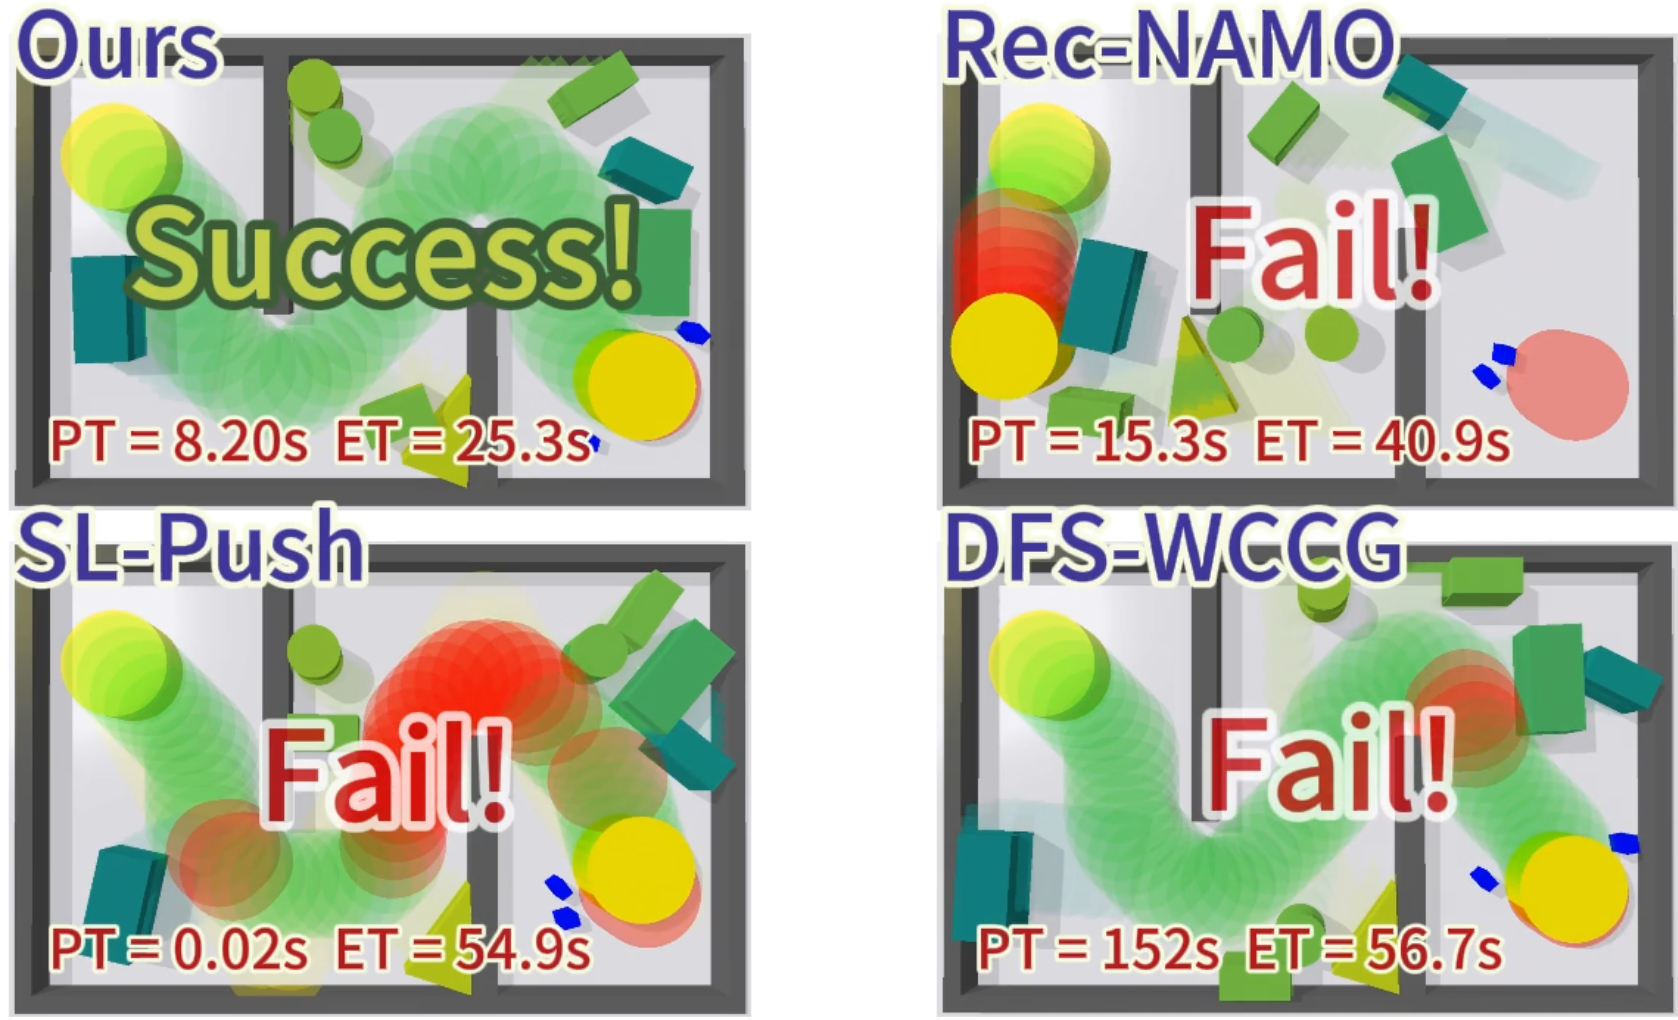
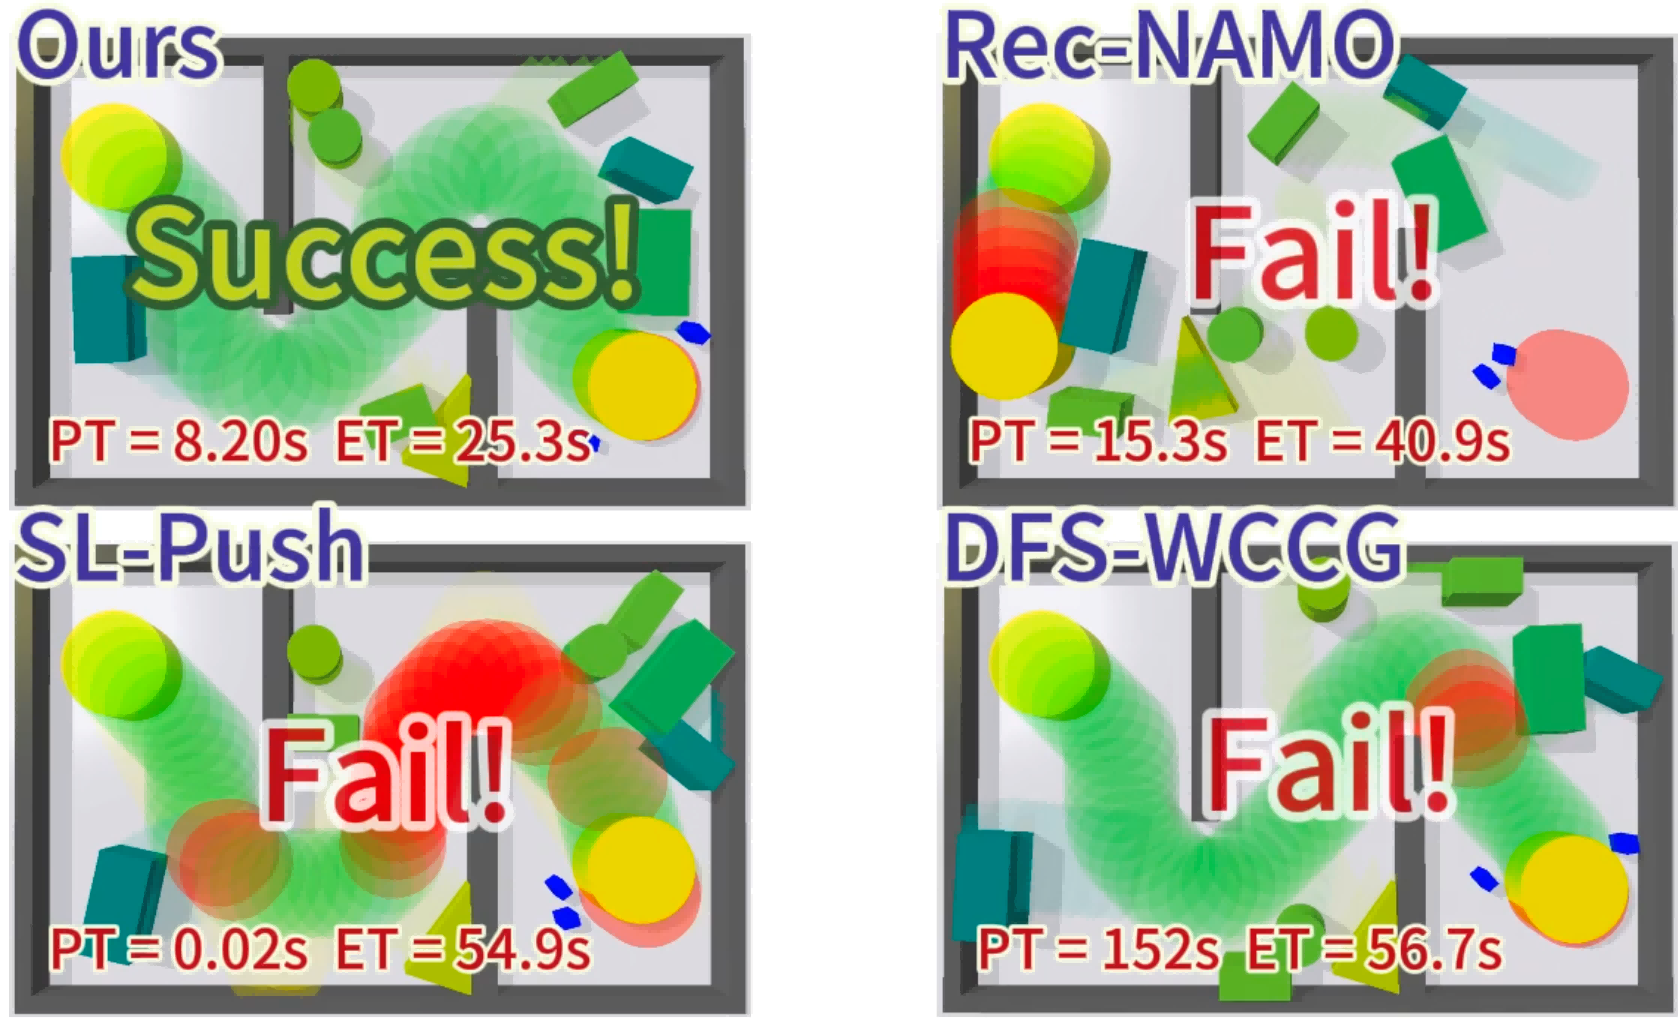
fix typo

diff --git a/ral_tex/contents/experiment.tex b/ral_tex/contents/experiment.tex
@@ -32,8 +32,9 @@ $10$, and gap sampling follows a softmax distribution with temperature~$0.05$.
 \subsubsection{Results}
 
 
-The result in the main scenario with~$10$ movable obstacles and two robots,
-as shown in Fig.~\ref{fig:simloop}. In the initial state, the start and goal
+The result in Scenario 1 with 10 movable obstacles and two robots is shown
+in Fig.~\ref{fig:main_result}. 
+In the initial state, the start and goal
 belong to different $W$-clearance faces, indicating that a feasible passage for
 the object is blocked by movable obstacles.
 Based on these selected gaps, the task sampler generates $6$ push
@@ -43,10 +44,7 @@ the reachable $W$-clearance region. After each executed push, the WCCG overlay
 is updated, and the blue start face expands through the newly opened gaps. This
 confirms that the planned pushing actions are consistent with the
 topological progress predicted by the graph search. The execution finishes in
-$42.27$\,s, and the final WCCG overlay shows that the start face contains the
-goal position.
-
-
+$42.27$\,s, and the final WCCG overlay shows that the start face contains the goal position.
 
 
 
@@ -68,7 +66,7 @@ goal position.
   SL-Push (offline)   & 62.5  & 0.06  & 44.1   & 0.0   & 7.0  \\
   SL-Push (sim)        & 75.0  & 18.2  & 64.6   & 20.0 & 10.0  \\
   Rec-NAMO             & 37.5  & 13.3  & 42.4   & 0.0   & 7.0  \\
-  \textbf{PushAround (ours)} & \textbf{92.5} & \textbf{10.3} & \textbf{28.6} & \textbf{121.5} & \textbf{6.0} \\
+  \textbf{PushAround (ours)} & \textbf{97.5} & \textbf{10.3} & \textbf{28.6} & \textbf{121.5} & \textbf{6.0} \\
   \midrule
   w/o presearch        & 85.0 & 16.9 & 35.2 & 178 & 7.0 \\
   w/o ModeTable        & 80.0 & 15.1 & 33.4  & 164 & 6.0 \\
@@ -77,6 +75,7 @@ goal position.
   \bottomrule
   \end{tabular}
   \end{threeparttable}
+  \vspace{-0.2in}
 \end{table}
 % ========================================
 
@@ -84,36 +83,37 @@ goal position.
 \begin{figure}[t!]
   \centering
   \includegraphics[width=0.8\columnwidth]{figures/compare.png}
-  \vspace{-0.15in}
+  \vspace{-0.1in}
   \caption{Failure cases by baselines Rec-NAMO, SL-Push and DFS-WCCG.}
   \label{fig:baseline}
-  \vspace{-0.1in}
+  \vspace{-0.2in}
 \end{figure}
 % ========================================
 
 \subsubsection{Comparisons}\label{subsec:comparisons}
-In total four external planners are evaluated under the same $W$-clearance criterion and contact models. External
-baselines are: \textbf{DFS-WCCG}, a simulation-in-the-loop depth-first search  guided by the WCCG
-with four fixed axis-aligned pushes per movable, which scales poorly due to exponential branching;
-\textbf{SL-Push (offline)}, which clears blockers by minimal displacements along a straight or
-waypointed route without physics, planning quickly but yielding unrealizable executions;
-\textbf{SL-Push (sim)}, which validates the same route with physics, improving feasibility but
-requiring many simulations and long action sequences; and \textbf{Rec-NAMO}, which combines Dijkstra
-routing with local push decomposition and edge pruning, producing faster plans than simulation-heavy
-methods but often failing to establish a connected $W$-clear corridor in dense clutter.
-Table~\ref{tab:main_ablation} shows that PushAround achieves the highest
-success rate of $92.5\%$ with the lowest combined planning and execution time
-of $38.9$\,s. DFS-WCCG reaches only $25.0\%$ success due to exponential
-branching, requiring more than $100$,s planning time and more than $500$
-simulations. As detailed in Fig.~\ref{fig:baseline}, SL-Push offline is
-extremely fast with $0.06$\,s planning time but produces physically invalid or
-incomplete executions, resulting in only $62.5\%$ success, while SL-Push sim
-improves success to $75.0\%$ at the cost of $18.2$\,s planning time,
-$64.6$\,s execution time, and~$10$ pushes. Rec-NAMO is faster than
-simulation-heavy baselines with~$13.3$\,s planning time, but often fails to
-produce complete solutions and reaches only $37.5\%$ success.
-
-
+In total four external planners are evaluated under the same $W$-clearance
+criterion and contact models. External baselines are: \textbf{DFS-WCCG}, a
+simulation-in-the-loop depth-first search guided by the WCCG with four fixed
+axis-aligned pushes per movable, which scales poorly due to exponential
+branching; \textbf{SL-Push (offline)}, which clears blockers by minimal
+displacements along a straight or waypointed route without physics, planning
+quickly but yielding unrealizable executions; \textbf{SL-Push (sim)}, which
+validates the same route with physics, improving feasibility but requiring many
+simulations and long action sequences; and \textbf{Rec-NAMO}, which combines
+Dijkstra routing with local push decomposition and edge pruning, producing
+faster plans than simulation-heavy methods but often failing to establish a
+connected $W$-clear corridor in dense clutter. Table~\ref{tab:main_ablation}
+shows that PushAround achieves the highest success rate of $97.5\%$ with the
+lowest combined planning and execution time of $38.9$\,s. DFS-WCCG reaches only
+$25.0\%$ success due to exponential branching, requiring over $100$\,s planning
+time and more than $500$ simulations. 
+SL-Push offline is extremely fast with $0.06$\,s planning time but produces
+physically invalid or incomplete executions, yielding only $62.5\%$ success,
+while SL-Push sim improves success to $75.0\%$ at the cost of $18.2$\,s
+planning time, $64.6$\,s execution time, and $10$ pushes. 
+Rec-NAMO is faster than simulation-heavy baselines with $13.3$\,s planning time, 
+but often fails to complete the corridor and reaches only $37.5\%$ success.
+Fig.~\ref{fig:baseline} qualitatively illustrates these typical failures.
 %==============================
 \subsubsection{Ablation Studies}
 Moreover, the following~$4$ {internal ablations} remove key modules of {PushAround}: \textbf{w/o presearch}, which disables frontier extraction and
@@ -129,7 +129,7 @@ as success drops by $10.0\%$ when removed.
 
 
 \subsubsection{Density Scalability}\label{subsec:density}
-Density scalability is evaluated in an $8{\times}8$,m workspace with
+Density scalability is evaluated in an $8{\times}8\,$m workspace with
 $N\in\{15,20,25,30,35,40,45\}$ movable obstacles and five seeds per density, as
 shown in Fig.~\ref{fig:dense45}. For each seed, denser instances are generated
 by incrementally adding objects to the same layout, making the higher-density
@@ -145,7 +145,7 @@ blocker clearance is critical in the hardest dense scenes.
 % ========================================
 \begin{figure}[t!]
   \centering
-  \includegraphics[width=0.9 \columnwidth]{figures/dense45.pdf}
+  \includegraphics[width=0.9 \columnwidth]{figures/dense.png}
   \vspace{-0.15in}
   \caption{Scalability in dense clutter with $\boldsymbol{45}$ movable objects.
 \textbf{Top:} snapshots during the path clearing of $24.5$~s.
@@ -163,14 +163,14 @@ blocker clearance is critical in the hardest dense scenes.
   The panels report success rate, mean planning time, and mean
   execution time.}
   \label{fig:density_scaling}
-  \vspace{-0.1in}
+  \vspace{-0.2in}
 \end{figure}
 % ========================================
 
 % ========================================
 \begin{figure*}[t!]
   \centering
-  \includegraphics[width=0.95\linewidth]{figures/hardware.pdf}
+  \includegraphics[width=0.95\linewidth]{figures/hardware.png}
   \vspace{-4mm}
   \caption{Real-world pushing experiments with the execution--planning alignment
     (over~$20$ runs and $2$ scenarios).
@@ -196,14 +196,20 @@ global poses to \texttt{PyBullet} in real time, enabling policy execution and vi
 Movables are randomly placed for each trial.
 
 \subsubsection{Results}\label{subsec:exp-results}
-Two representative real-world runs are shown in Fig.~\ref{fig:snapshots} and~\ref{fig:hardware}.
-The WCCG presearch completes
-within $10$\,s, during which \textbf{$5$ gaps} are sequentially cleared through $64$ node expansions and a
-maximum search depth of $3$. In the first task at $20$\,s, a yellow T-shaped object is rotated
-counter-clockwise to expose a reachable contact on an adjacent green rectangle. In the second task
-at $55$\,s, the green rectangle is pushed to its target. The third and fourth tasks manipulate an
-orange rectangle and a blue cylinder at $71$\,s and $77$\,s, respectively, to open the
-gaps. By the $5$th task, all gaps in the WCCG are cleared, enabling a collision-free traverse from
-start to goal. Execution time varies due to occasional drifting or slippage of the Mecanum wheels
-near $45^\circ$, which introduces deviations from simulation.
-Online replanning is essential to compensate for these effects in both scenarios.
+Two representative real-world runs are shown in Fig.~\ref{fig:hardware}. 
+In Scenario~1, PIHS breaks five candidate gaps within
+$6.5\,$s, using $12$ node expansions, $49$ visited system-state snapshots,
+and a maximum search depth of $6$. The four-task schedule first pushes and
+rotates the yellow L-shaped object to open a gap near an immovable obstacle.
+It then pushes the green and orange rectangular objects in opposite lateral
+directions, progressively expanding the reachable $W$-clearance region. After
+the green cylinder is pushed to the right, a complete $W$-clear path is
+established at $t=52\,$s.
+In Scenario~2, a direct push on the blue L-shaped object also moves the
+adjacent T-shaped block, opening the first gap into the narrow passage.
+Subsequent pushes require local replanning when the green rectangle slides
+along a nearby cylinder, and the final endpoint-clearance task enables the
+large vehicle footprint to traverse the passage. The main execution deviations
+mainly arise from direction-dependent force limits, drifting, and slippage of the
+Mecanum wheels near $45^\circ$ motion directions. Online replanning is essential
+to compensate for these effects in both scenarios.

diff --git a/ral_tex/contents/gap.tex b/ral_tex/contents/gap.tex
@@ -46,14 +46,14 @@ is required, i.e., multiple out-layer obstacles should be cleared \emph{before}~
 \begin{figure}[t!]
   \centering
   \includegraphics[width=0.95\linewidth]{figures/direct_recursive_push.pdf}
-  \vspace{-0.15in}
+  \vspace{-0.1in}
   \caption{
-Direct pushing moves a gap-side object
-  toward a opening motion, whereas recursive pushing first clears movable
-  blockers found in the swept region and then returns to the root gap-opening
-  task.}
-    \label{fig:direct_recursive_push}
-   \vspace{-4mm}
+  Direct pushing moves a gap-side object along a gap-opening direction,
+  whereas recursive pushing first clears movable blockers found in the swept
+  region and then returns to the root gap-opening task.
+  }
+  \label{fig:direct_recursive_push}
+  \vspace{-4mm}
 \end{figure}
 %------------------------------
 

diff --git a/ral_tex/contents/simloop.tex b/ral_tex/contents/simloop.tex
@@ -80,13 +80,12 @@ Init~$\mathcal{Q}$ by~\eqref{eq:priority}\;
   \centering
   \includegraphics[width=0.95\linewidth]{figures/sim.pdf}
   \vspace{-0.15in}
-\caption{Execution and planning alignment in the main scenario.
-\textbf{Top:}~$5$ snapshots as~$2$ robots push a cylindrical object.
-\textbf{Bottom:} corresponding WCCG overlays with the start face in blue.
-The red vehicle moves from \(\mathbf{s}^{\texttt{S}}_{\texttt{V}}=(1,4)\)
-to \(\mathbf{s}^{\texttt{G}}_{\texttt{V}}=(7,2)\), after $6$ pushing tasks are performed.}
-\vspace{-0.1in}
-\label{fig:simloop}
+\caption{Execution and planning alignment in two simulation scenarios.
+\textbf{Top:} simulated snapshots during path clearing.
+\textbf{Bottom:} corresponding WCCG overlays with the start face in blue. 
+The executed pushes progressively expand the reachable $W$--clearance region until the goal is connected.}
+\vspace{-0.2in}
+\label{fig:main_result}
 \end{figure*}
 % ========================================
 

diff --git a/ral_tex/contents/problem.tex b/ral_tex/contents/problem.tex
@@ -4,13 +4,11 @@
   \centering
   \includegraphics[width=0.95\linewidth]{figures/wccg_new.pdf}
   \vspace{-0.1in}
-  \caption{Illustration of the W--clearance connectivity graph (WCCG).
-\textbf{Left:} Cluttered PyBullet scenario with immovable walls and movable objects;
-\textbf{Middle:} WCCG overlay with the centroid nodes (blue squares), bridge nodes
-(red circles), centroid--bridge edges (blue), and bridge--bridge edges (red dashed)
-annotated by the gap widths;
-\textbf{Right:} Induced faces of the WCCG, where the colors indicate distinct connected
-regions.}
+  \caption{Illustration of the W--clearance connectivity graph (WCCG) and gap
+    ranking. From left to right: cluttered PyBullet scenario, WCCG overlay with
+    centroid nodes, bridge nodes, and annotated gap widths, induced WCCG faces,
+    and the prioritized frontier-gap sequence.
+    }
   \label{fig:wccg}
   \vspace{-0.2in}
 \end{figure*}

diff --git a/ral_tex/contents/push.tex b/ral_tex/contents/push.tex
@@ -126,9 +126,9 @@ time cost; and~$\delta_{\texttt{J}}$ is the control effort.
   \includegraphics[width=0.95\linewidth]{figures/PIHS.pdf}
   \vspace{-0.15in}
   \caption{
-\textbf{Top:} Core components of the proposed physics-informed hybrid search;
-\textbf{Bottom:} Sampled push tasks are evaluated via parallel simulation, producing updated states
-for search expansion.}
+  \textbf{Top:} Core components of the proposed physics-informed hybrid search;
+  \textbf{Bottom:} Sampled push tasks are evaluated via parallel simulation, producing updated states
+  for search expansion.}
     \label{fig:PIHS}
    \vspace{-4mm}
 \end{figure}

diff --git a/ral_tex/contents/introduction.tex b/ral_tex/contents/introduction.tex
@@ -23,7 +23,7 @@ making prediction and planning substantially more complex.
 %==============================================
 \begin{figure}[t!]
   \centering
-  \includegraphics[width=0.95\linewidth]{figures/cover.pdf}% or {presearch.pdf}
+  \includegraphics[width=0.95\linewidth]{figures/cover.png}% or {presearch.pdf}
   \vspace{-0.1in}
   \caption{
     Collaborative path clearing in both simulation (\textbf{Top})
@@ -123,7 +123,7 @@ focusing computation on the most promising actions and avoiding the scalability
 issues of simulation-heavy NAMO approaches.
 Extensive simulations and experiments are conducted for validation.
 
-The contributions are twofold: {(I)} it introduces an unified framework that
+The contributions are twofold: {(I)} it introduces a unified framework that
 couples collaborative pushing with
 physics-informed verification, producing executable plans for
 path clearing in cluttered environments; and {(II)} it